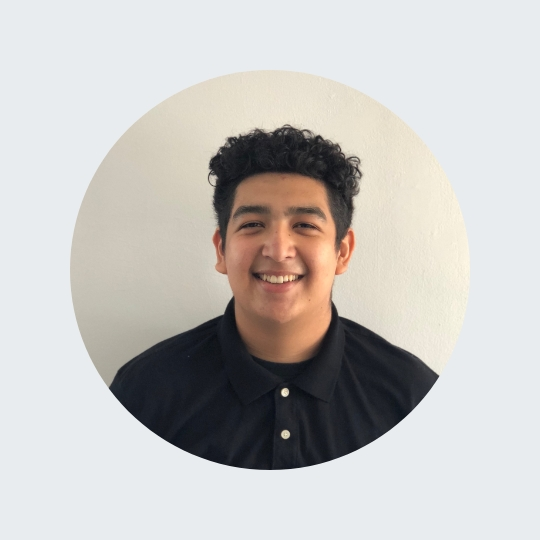
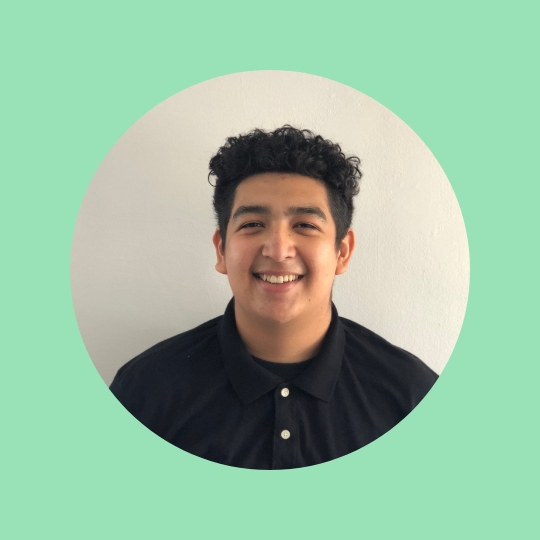
CSS Animation

diff --git a/index.html b/index.html
@@ -16,7 +16,7 @@
             <img src="Images/GG Logo.png" alt="">
             <ul class="navbar-nav mr-auto col-6 offset-8">
                 <li class="nav-item">
-                    <a class="nav-link" href="#work">My Work</a>
+                    <a class="nav-link" href="#mywork">My Work</a>
                 </li>  
                 <li class="nav-item">
                     <a class="nav-link" href="#about">About</a>
@@ -29,24 +29,25 @@
 
     <!-- JUMBOTRON -->
     <div class="jumbotron">
-            <img id="profile" width="30%" src="./Images/PFP.jpg" alt="photo">
-        <h1 >Gabriel Gonzalez UX/UI Portfolio</h1>
-        <hr class="my-4">
-        <p class="lead">Welcome to my Bootstrap Portfolio! This will provide you with my work that has been done at the UCLA UX/UI Bootcamp.</p>
+            <img id="profile" width="20%" src="./Images/PFP.jpg" alt="photo">
+        <h1 class="tracking-in-expand">Gabriel Gonzalez UX/UI Portfolio</h1>
+        <hr class="my-4 tracking-in-expand">
+        <p class="lead tracking-in-expand">Welcome to my Portfolio! I am a beginning UX/UI designer, inspired by the gaming industry. This will provide the work that I have done at the UCLA UX/UI Bootcamp.</p>
     </div>
     <!-- JUMBOTRON END -->
 
     <!-- WORK SECTION -->
     <div id="mywork" class="jumbotron">
-        <h1>My Work</h1>
+        <h3 style="font-size: 40px; color: white;">My Work</h2>
+        <p class="lead" style="color: white;">Two of these projects are solo projects, while the other two are group projects. In each project, a different problem is solved based on the users goals and frustrations.</p>
     </div>
 
 
 
-    <div class="container" item-width="100%" id="work">
+    <div class="container" width="100%" id="work">
         <div class="row ">
             <div class="col-6">
-                <div class="card shadow-lg p-3 mb-5 rounded" style="width: 100%; ">
+                <div id="card" class="card shadow-lg p-3 mb-5 rounded" style="width: 100%; ">
                         <img class="img-fluid mx-auto" width="30%" src="Images/Airbnb Travel App Preview Mode   InVision.png"  alt="">
                     <div class="card-body">
                         <h5 class="card-title">Airbnb Travel App</h5>
@@ -56,7 +57,7 @@
                 </div>
             </div>       
             <div class="col-6">
-                <div class="card shadow-lg p-3 mb-5 rounded" width="100%" height="90%">
+                <div id="card" class="card shadow-lg p-3 mb-5 rounded" width="100%" height="90%">
                     <img class="img-fluid mx-auto" width="100%" src="Images/Local Eyes.png" alt="">
                     <div class="card-body">
                         <h5>LocalEyes Travel App</h5>
@@ -66,7 +67,7 @@
                 </div>
             </div> 
             <div class="col-6">
-                    <div class="card shadow-lg p-3 mb-5 rounded" style="width: 100%;">
+                    <div id="card" class="card shadow-lg p-3 mb-5 rounded" style="width: 100%;">
                             <img class="img-fluid mx-auto" width="80%" src="Images/Logo on Dark.png" alt="">
                         <div class="card-body">
                             <h5 class="card-title">NSA Web Redesign</h5>
@@ -76,7 +77,7 @@
                     </div>
                 </div>       
                 <div class="col-6">
-                    <div class="card shadow-lg p-3 mb-5 rounded" style="width: 100%;">
+                    <div id="card" class="card shadow-lg p-3 mb-5 rounded" style="width: 100%;">
                         <img class="img-fluid mx-auto" width="100%" src="Images/Logo.png" alt="">
                         <div class="card-body">
                             <h5 class="card-title">AH&W Foundation Web Redesign</h5>
@@ -98,7 +99,7 @@
     <!-- ABOUT ME -->
     <div class="jumbotron" id="about">
         <h1>About Me</h1>
-        <p>My name is Gabe Gonzalez and I am a young UX/UI designer coming straight out of highschool. My goal is to become an even more experienced designer than what I have become at the UCLA UX/UI Bootcamp. I love the idea of designing pretty much anything. Being able to put my imagination to work is what I want to do.</p>
+        <p>My name is Gabe Gonzalez and I am a young UX/UI designer coming straight out of highschool. My goal is to become an even more experienced designer than what I have become at the UCLA UX/UI Bootcamp. I love the idea of being able to do pretty much anything with designs. Being able to put my imagination to work is what I love to do.</p>
         <hr id="line">
         <h3>Area Of Focus</h3>
         <p>I'd definitely like to take what I've learned into the gaming industry. Gaming has been in my life for as long as I can remember and I'd want to be working in a field that I can relate to.</p>
@@ -123,7 +124,7 @@
     <!-- ABOUT ME END -->
 
     <!-- MODAL -->
-    <div class="modal fade" id="exampleModal" tabindex="-1" role="dialog" aria-labelledby="exampleModalLabel" aria-hidden="true">
+    <div class="modal fade swirl-in-fwd" id="exampleModal" tabindex="-1" role="dialog" aria-labelledby="exampleModalLabel" aria-hidden="true">
         <div class="modal-dialog" role="document">
           <div class="modal-content">
             <div class="modal-header">

diff --git a/style.css b/style.css
@@ -1,5 +1,5 @@
 .navbar {
-    background-color: black;
+    background-color: #0D4600;
     display: flex;
     flex-wrap: wrap;
 }
@@ -7,6 +7,7 @@
 
 .jumbotron {
     text-align: center;
+    background-color: #99E1B6;
 }
 
 .btn-primary { 
@@ -23,7 +24,7 @@
     border-width: 2.5px;
     border-radius: 20px;
     border-color: black;
-    box-shadow: 0 10 2 black;
+    /* box-shadow: 0 10 2 black; */
 }
 
 .container {
@@ -87,8 +88,12 @@ h1 {
     font-size: 50px
 }
 
+h2, h4, p {
+    font-family: 'Lato', sans-serif;
+}
+
 #mywork {
-    background-color: white;
+    background-color: #0D4600;
 }
 
 #line {
@@ -97,7 +102,7 @@ h1 {
 
 #about {
     color: white;
-    background-color: black;
+    background-color:#0D4600;
 }
 
 @media (max-width: 768px) {
@@ -156,6 +161,92 @@ h1 {
   opacity: 1;
   right: 0;
 }
+
+#work {
+    background-color: #99E1B6;
+    width: 100%;
+}
+
+.swirl-in-fwd {
+	-webkit-animation: swirl-in-fwd 0.6s ease-out both;
+	        animation: swirl-in-fwd 0.6s ease-out both;
+}
+
+/* ----------------------------------------------
+ * Generated by Animista on 2019-1-22 13:2:38
+ * w: http://animista.net, t: @cssanimista
+ * ---------------------------------------------- */
+
+/**
+ * ----------------------------------------
+ * animation swirl-in-fwd
+ * ----------------------------------------
+ */
+ @-webkit-keyframes swirl-in-fwd {
+    0% {
+      -webkit-transform: rotate(-540deg) scale(0);
+              transform: rotate(-540deg) scale(0);
+      opacity: 0;
+    }
+    100% {
+      -webkit-transform: rotate(0) scale(1);
+              transform: rotate(0) scale(1);
+      opacity: 1;
+    }
+  }
+  @keyframes swirl-in-fwd {
+    0% {
+      -webkit-transform: rotate(-540deg) scale(0);
+              transform: rotate(-540deg) scale(0);
+      opacity: 0;
+    }
+    100% {
+      -webkit-transform: rotate(0) scale(1);
+              transform: rotate(0) scale(1);
+      opacity: 1;
+    }
+  }
+
+  .tracking-in-expand {
+	-webkit-animation: tracking-in-expand 0.7s cubic-bezier(0.215, 0.610, 0.355, 1.000) both;
+	        animation: tracking-in-expand 0.7s cubic-bezier(0.215, 0.610, 0.355, 1.000) both;
+}
+
+/* ----------------------------------------------
+ * Generated by Animista on 2019-1-22 13:12:53
+ * w: http://animista.net, t: @cssanimista
+ * ---------------------------------------------- */
+
+/**
+ * ----------------------------------------
+ * animation tracking-in-expand
+ * ----------------------------------------
+ */
+ @-webkit-keyframes tracking-in-expand {
+    0% {
+      letter-spacing: -0.5em;
+      opacity: 0;
+    }
+    40% {
+      opacity: 0.6;
+    }
+    100% {
+      opacity: 1;
+    }
+  }
+  @keyframes tracking-in-expand {
+    0% {
+      letter-spacing: -0.5em;
+      opacity: 0;
+    }
+    40% {
+      opacity: 0.6;
+    }
+    100% {
+      opacity: 1;
+    }
+  }
+  
 /* #pencil {
     padding: 20px;
     font-size: 20px;

diff --git a/index.js b/index.js
@@ -30,3 +30,14 @@
 // $("#moon").click(function () {
 //     $("#theme-stylesheet").attr("href", "https://bootswatch.com/4/superhero/bootstrap.css");
 // });
+var $card = $("#card")
+
+$("#card").hover(function() {
+   
+});
+
+var $modal = ("#exampleModal")
+
+$("#envelope").click(function() {
+    $modal.addClass("swirl-in-fwd")
+}
